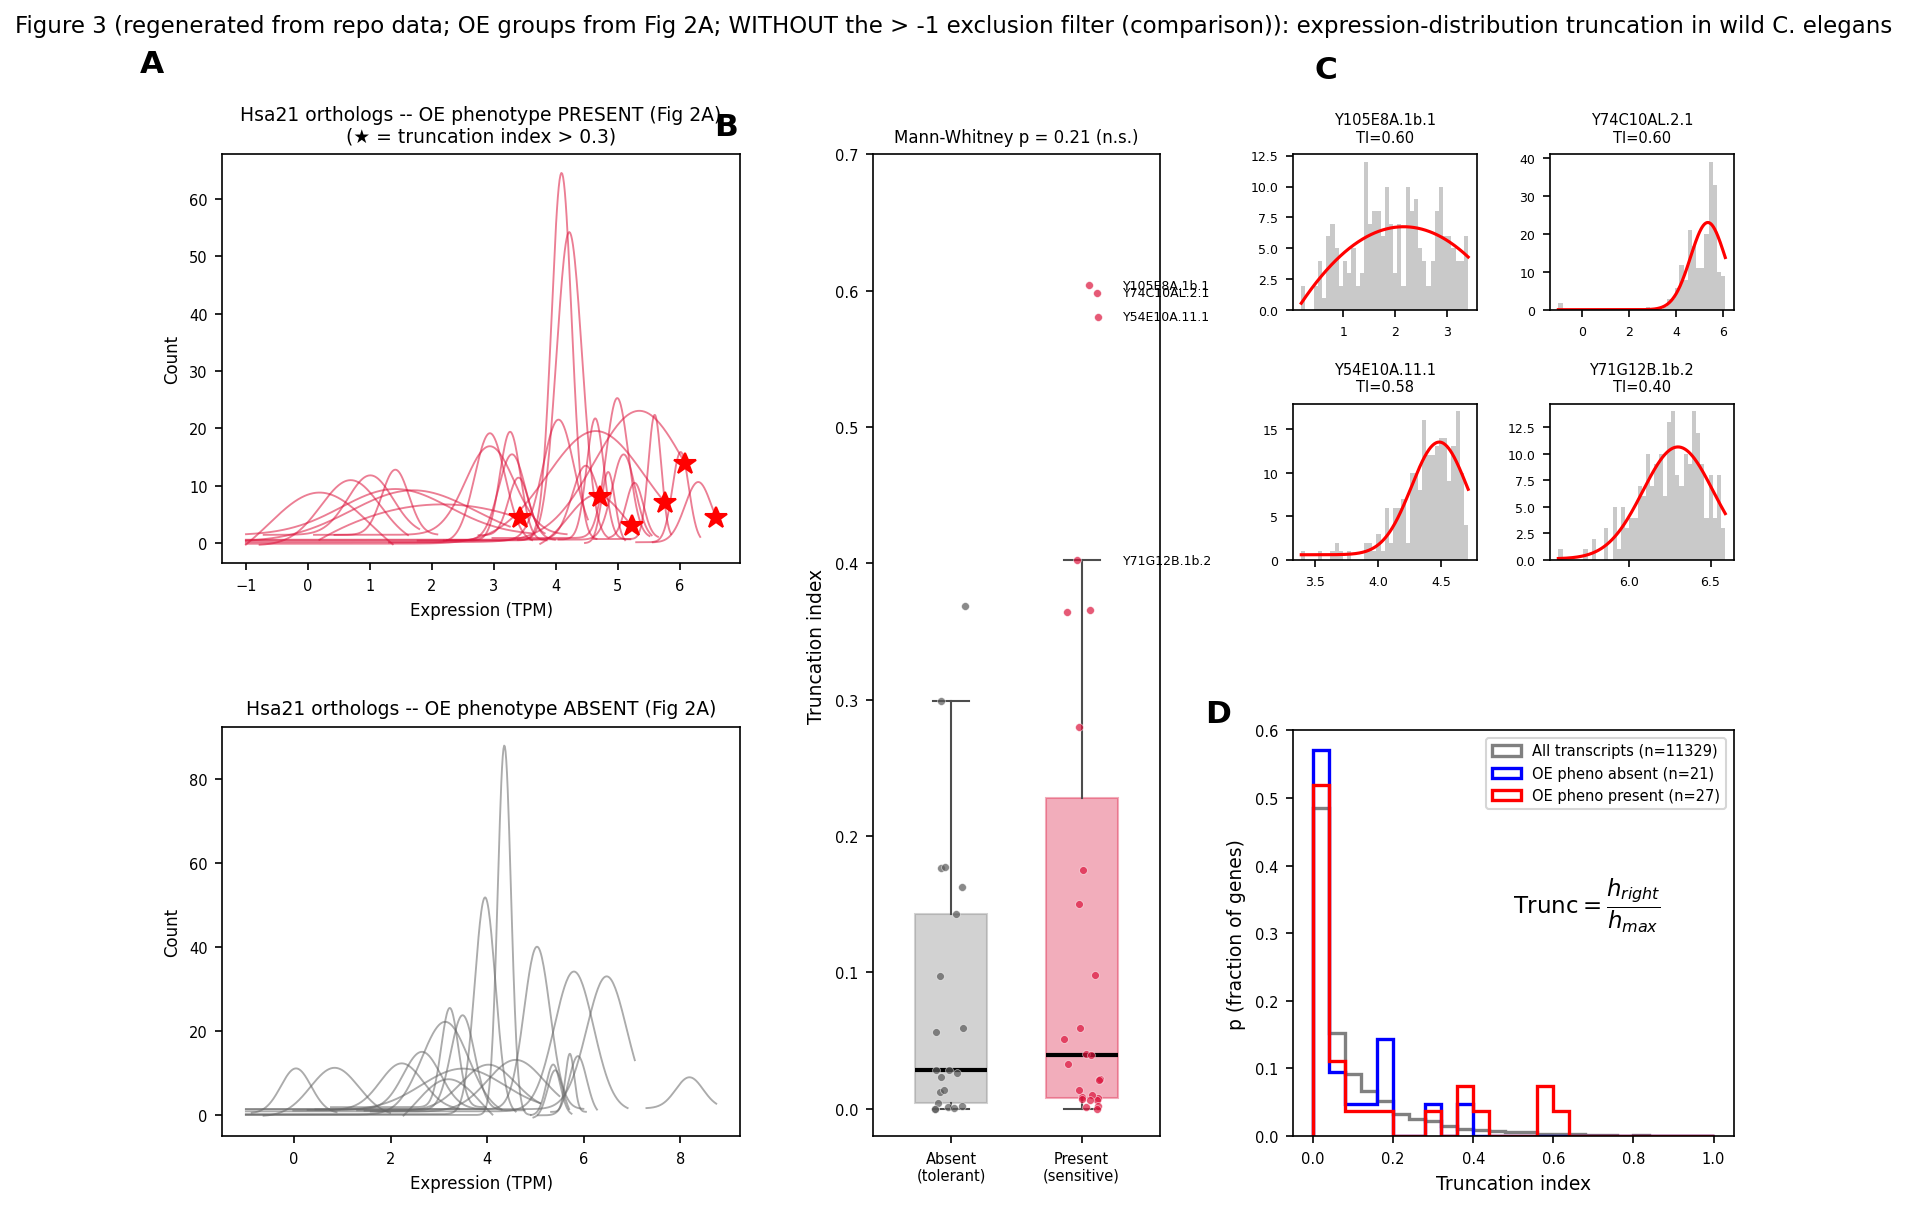
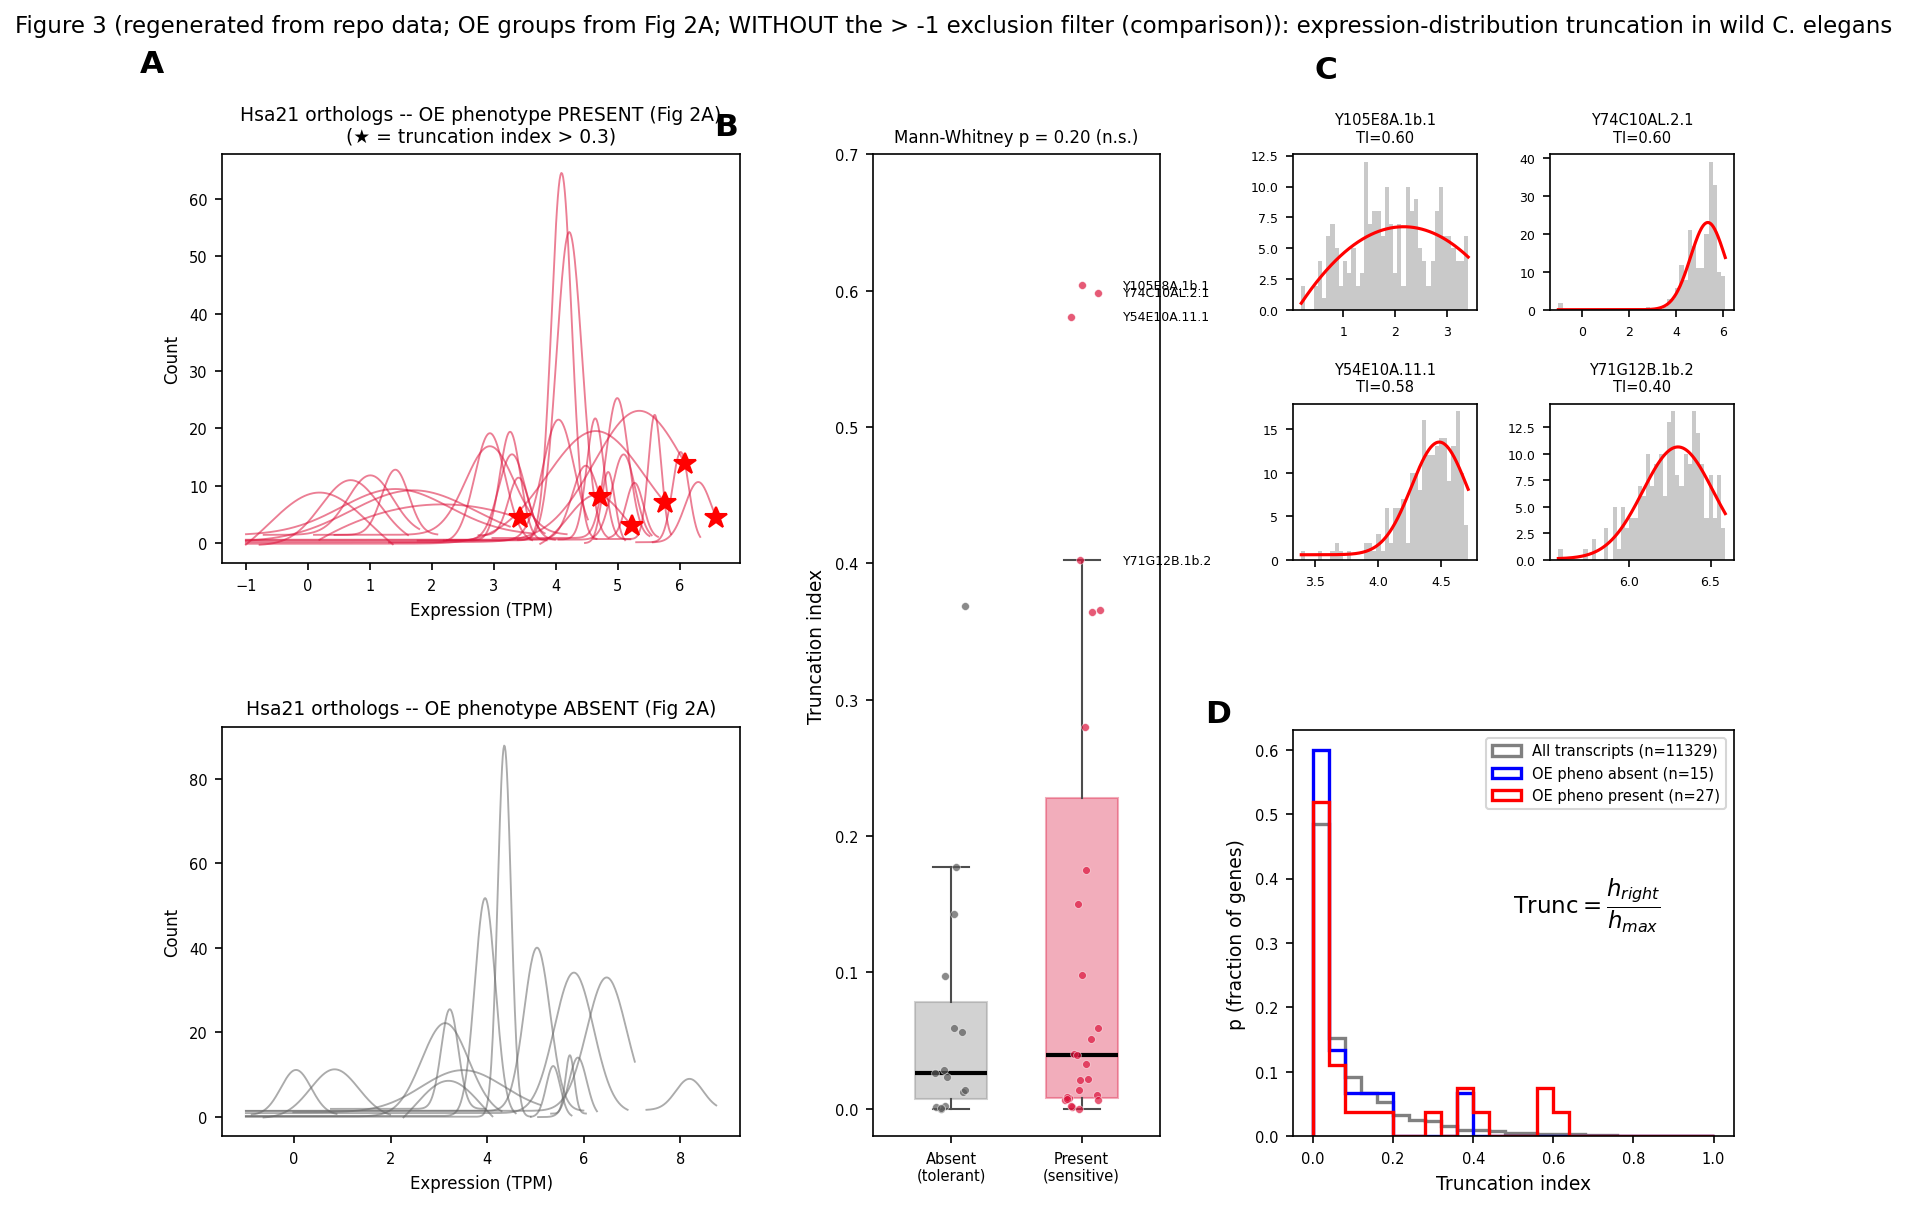
Fig 3: exclude itsn-1 and adr-2 from worm panels (professor's instruction)
EXCLUDE_GENES = {itsn-1, adr-2}; both OE-tolerant. Dropped from every worm
panel (3A-D + 3B comparison), filtered and no-filter. Regenerated all three
worm PNGs. Removing these two elevated tolerant genes lowers the tolerant
group and moves the grant-style 3B t-test from p~0.29 to p~0.11; box-plot
MWU ~0.22 (filtered) / ~0.20 (no-filter). Docs updated.

diff --git a/regenerate_acfrog_figures.py b/regenerate_acfrog_figures.py
@@ -73,6 +73,13 @@ TOL_GENES = [   # 23 OE-tolerant Hsa21 orthologs (no mcOE phenotype)
     "ubc-14", "wdr-4",
 ]
 
+# Genes to drop from the Fig-3 analysis at the professor's instruction
+# (itsn-1 and adr-2, both OE-tolerant). Removed from every worm panel (3A-D and
+# the 3B comparison), in both the filtered and no-filter renderings.
+EXCLUDE_GENES = {"itsn-1", "adr-2"}
+SENS_GENES = [g for g in SENS_GENES if g not in EXCLUDE_GENES]
+TOL_GENES = [g for g in TOL_GENES if g not in EXCLUDE_GENES]
+
 
 def build_worm_groups(table_index):
     """

diff --git a/acfrog.md b/acfrog.md
@@ -245,7 +245,8 @@ phenotypes in our proposal.
 > hlh-34, sod-1, D1037.1, unc-26, Y74C10AL.2, trpp-10, K02C4.3.
 > **OE-tolerant (no mcOE, 23):** adr-2, atp-3, B0024.15, cbs-1, cct-8, D1086.9, H39E23.3,
 > igcm-1, mbk-1, F38B6.4, stc-1, itsn-1, zig-10, mrpl-39, mtq-2, pes-4, pad-2, ikb-1, rnt-1,
-> set-29, sod-5, ubc-14, wdr-4.
+> set-29, sod-5, ubc-14, wdr-4. *(`itsn-1` and `adr-2` are excluded from the Fig. 3 panels
+> at the professor's instruction.)*
 
 *(Research Strategy — Page 37)*
 
@@ -261,13 +262,14 @@ phenotypes in our proposal.
 >
 > - **Worm (Fig. 3):** OE groups are taken from **Figure 2A** (mcOE-"Any" column = OE
 >   sensitive; no mcOE = OE tolerant), *not* from `genes_of_interest.json` — the json
->   lacked the OE-tolerant no-phenotype genes that form the correct "absent" control. With
->   the proper control, the qualitative pattern **does** appear as a **tail effect**:
->   OE-tolerant genes are capped (max TI ≈ 0.30, 94% below 0.2) while OE-sensitive genes
->   spread out to 0.60 (25% above 0.2). The center/median is similar for both, so
->   Mann-Whitney is only **p ≈ 0.24 (n.s.)** — weaker than the proposal's *p < 0.004*
->   (likely the older *unbounded* truncation-index metric or a per-gene test amplified it),
->   but the direction and the tolerant-genes-are-capped result are real.
+>   lacked the OE-tolerant no-phenotype genes that form the correct "absent" control.
+>   **Two OE-tolerant genes, `itsn-1` and `adr-2`, are excluded from all worm panels at the
+>   professor's instruction** (`EXCLUDE_GENES` in the script). With the proper control, the
+>   qualitative pattern **does** appear as a **tail effect**: OE-tolerant genes are capped
+>   (max TI ≈ 0.18) while OE-sensitive genes spread out to 0.60. The center/median is similar
+>   for both, so Mann-Whitney is only **p ≈ 0.22 (n.s.)** — weaker than the proposal's
+>   *p < 0.004* (likely the older *unbounded* truncation-index metric or a per-gene test
+>   amplified it), but the direction and the tolerant-genes-are-capped result are real.
 > - **Cerebellum (Fig. 4):** the classic triplication genes (*APP*, *SOD1*, *SNCA*,
 >   *RCAN1*, *PCSK9*, *MECP2* …) come out as mid-range Gaussians with tapering right tails;
 >   their truncation indices are ≈ 0, consistent with the repo's own section-5 finding that
@@ -316,12 +318,13 @@ red). D) Data in B shown as normalized histograms compared to all transcripts."
 Same panels, but built from the **non-excluded** fits (`worm_fourparam_table.csv`) with the
 −1 expression floor **included** when re-histogramming — i.e. the pipeline's usual `> -1`
 low-expression exclusion turned **off** (the `fit_success` / `0<TI<1` / `n_obs≥30` validity
-filters still apply). This is for comparison only; the `> -1` filter is the default and
-recommended setting. Dropping it lets more transcripts through (all: 11,062 → 11,329;
-OE-tolerant: 18 → 21) and pulls fits leftward as the −1 floor re-enters each distribution,
-but the qualitative picture is unchanged (Mann-Whitney p ≈ 0.22 vs 0.24; tolerant genes
-still capped, sensitive genes still spread higher). Regenerate both via
-`python regenerate_acfrog_figures.py` (`figure3(exclude=True/False)`).
+filters still apply; `itsn-1`/`adr-2` are excluded in both renderings). This is for
+comparison only; the `> -1` filter is the default and recommended setting. Dropping it lets
+more transcripts through (all: 11,062 → 11,329; OE-tolerant: 12 → 15) and pulls fits leftward
+as the −1 floor re-enters each distribution, but the qualitative picture is unchanged
+(Mann-Whitney p ≈ 0.20 vs 0.22; tolerant genes still capped, sensitive genes still spread
+higher). Regenerate both via `python regenerate_acfrog_figures.py`
+(`figure3(exclude=True/False)`).
 
 #### Figure 3B — box plot vs. the grant's representation
 
@@ -331,15 +334,18 @@ The grant's 3B is **not** a box plot — it is a per-gene dot plot with a black 
 marker, using **one (canonical) transcript per gene**. This panel puts the two
 representations of the *same data / same metric / same Fig-2A groups* side by side:
 
-- **Left — box plot, all transcripts (median):** Mann-Whitney p ≈ 0.24 (as embedded in
+- **Left — box plot, all transcripts (median):** Mann-Whitney p ≈ 0.22 (as embedded in
   Figure 3). Median-based, so the shared spike at TI ≈ 0.03 dominates.
-- **Right — grant style, 1 transcript/gene, mean ± SEM:** Welch t-test p ≈ 0.29.
+- **Right — grant style, 1 transcript/gene, mean ± SEM:** Welch t-test p ≈ 0.11.
 
-Neither reproduces the grant's *p < 0.004*, and the difference between them is **not** the
-truncation-index formula or the `> -1` filter — it is **transcript selection**. With the
-canonical isoform, *itsn-1* (tolerant) sits at 0.30 and *Y74C10AL.2* (which the grant plots
-at 0.68) drops to ~0, because the grant plotted different isoforms. Even the grant's own
-supplementary `trunc` values, tested on these 23/21 gene lists, only reach p ≈ 0.03–0.07 —
+(Both panels exclude `itsn-1`/`adr-2` per the professor; removing those two elevated
+tolerant genes drops the grant-style tolerant mean from ≈ 0.087 to ≈ 0.049 and its t-test
+from p ≈ 0.29 to ≈ 0.11.) Neither reproduces the grant's *p < 0.004*, and the difference
+between the two representations is **not** the truncation-index formula or the `> -1`
+filter — it is **transcript selection**. With the canonical isoform, *Y74C10AL.2* (which the
+grant plots at 0.68) drops to ~0, because the grant plotted different isoforms. Even the
+grant's own supplementary `trunc` values, tested on these gene lists, only reach
+p ≈ 0.03–0.07 —
 so the published *p < 0.004* most likely came from an expanded gene set (the caption's *+13
 genes from independent worm studies*) or a different test, rather than from these 47 Hsa21
 orthologs alone.

diff --git a/CLAUDE.md b/CLAUDE.md
@@ -152,7 +152,7 @@ Both are the interactive scratch space (`from bhuvanfitter import BhuvanFitter, 
 
 `ACFROG~1.PDF` is the Pierce-lab NIH-style grant proposal ("OE threshold / Censoring Hypothesis" for DS & AD genes) whose preliminary figures this whole toolkit supports. `acfrog.md` is its markdown conversion (text reconstructed from the PDF; Figs 1 & 2 are conceptual diagrams/tables and are only described — but Fig 2A's gene table is transcribed). **`regenerate_acfrog_figures.py`** regenerates the two *data* figures **faithfully from repo data** via `BhuvanFitter` → `acfrog_figure3_worm.png` (Fig 3, worm) and `acfrog_figure4_cerebellum.png` (Fig 4, cerebellum: Hsa21 & triplication-sensitive gene distributions). Run: `python regenerate_acfrog_figures.py`.
 
-- **Fig 3 OE groups come from Figure 2A, not `genes_of_interest.json`.** The script hard-codes `SENS_GENES` (24 OE-sensitive) / `TOL_GENES` (23 OE-tolerant) worm gene names extracted from Fig 2A's mcOE-"Any" shaded cells (the json lacks the OE-tolerant no-phenotype genes, which are the correct "absent" control for panel D). `build_worm_groups()` resolves those names → fourparam-table transcript IDs (`w{n}_{transcript}`) via the `Supplementary Data 1 trunc 20250702.xlsx` `GeneName`/`transcript`/`wwww` columns (hlh-34, sod-5, H39E23.3 aren't in the dataset and drop out).
+- **Fig 3 OE groups come from Figure 2A, not `genes_of_interest.json`.** The script hard-codes `SENS_GENES` (24 OE-sensitive) / `TOL_GENES` (23 OE-tolerant) worm gene names extracted from Fig 2A's mcOE-"Any" shaded cells (the json lacks the OE-tolerant no-phenotype genes, which are the correct "absent" control for panel D). `build_worm_groups()` resolves those names → fourparam-table transcript IDs (`w{n}_{transcript}`) via the `Supplementary Data 1 trunc 20250702.xlsx` `GeneName`/`transcript`/`wwww` columns (hlh-34, sod-5, H39E23.3 aren't in the dataset and drop out). **`EXCLUDE_GENES = {"itsn-1", "adr-2"}`** (two OE-tolerant genes) are dropped from `SENS_GENES`/`TOL_GENES` at the professor's instruction, so they're absent from every worm panel (3A–D and the 3B comparison), filtered and no-filter alike.
 - **Honesty caveat (in script + md):** with the proper Fig 2A groups, Fig 3D shows the qualitative pattern as a **tail effect** — OE-tolerant genes are capped (max TI ≈ 0.30) while OE-sensitive spread to 0.60 — but the medians are similar so Mann-Whitney is only p ≈ 0.24 (n.s.), weaker than the proposal's p < 0.004 (likely the older *unbounded* TI metric amplified it). Cerebellum (Fig 4): triplication genes have truncation index ≈ 0, and even as a pTriplo≥0.94-vs-dup-tolerant contrast the signal is flat/reversed (consistent with the section-5 ρ ≈ −0.01). Fig 3D uses **probability (per-bin fraction) normalization** to match the original's `p` axis, not density.
 - **`figure3(exclude=...)` toggle.** `figure3(exclude=True)` (default) uses the `> -1` excluded table + floor → `acfrog_figure3_worm.png`; `figure3(exclude=False)` uses the non-excluded `worm_fourparam_table.csv` and includes the −1 floor when re-histogramming → `acfrog_figure3_worm_nofilter.png` (comparison only; the validity filters `fit_success`/`0<TI<1`/`n_obs≥30` still apply). Dropping the exclusion lets more transcripts through and shifts fits left but leaves the qualitative result unchanged. `__main__` writes both.
-- **`figure3b_comparison()`** → `acfrog_figure3b_comparison.png`: side-by-side of panel 3B as (left) a box plot over all transcripts (median, Mann-Whitney p ≈ 0.24) vs (right) the **grant's style** — one canonical transcript per gene, mean ± SEM, gene-name labels, Welch t-test p ≈ 0.29. Same metric/data/groups; the grant's stronger *p < 0.004* is **not** reproduced. Diagnosis (also in acfrog.md): the box-vs-grant difference is **transcript selection + mean-vs-median statistic**, NOT the `> -1` filter (no-filter barely moves p) and NOT the truncationindex formula (current metric ≈ the grant's own supplementary `trunc` for most genes: cle-1/dnsn-1/dip-2/Y54E10A.11/Y105E8A.1 all within ~0.05). Even the grant's own `trunc` on these 23/21 gene lists only reaches p ≈ 0.03–0.07, so the published p likely used an expanded gene set (+13 independent-study genes).
+- **`figure3b_comparison()`** → `acfrog_figure3b_comparison.png`: side-by-side of panel 3B as (left) a box plot over all transcripts (median, Mann-Whitney p ≈ 0.22) vs (right) the **grant's style** — one canonical transcript per gene, mean ± SEM, gene-name labels, Welch t-test p ≈ 0.11 (both after excluding itsn-1/adr-2; dropping those two elevated tolerant genes moved the grant-style p from ≈ 0.29 → ≈ 0.11). Same metric/data/groups; the grant's stronger *p < 0.004* is **not** reproduced. Diagnosis (also in acfrog.md): the box-vs-grant difference is **transcript selection + mean-vs-median statistic**, NOT the `> -1` filter (no-filter barely moves p) and NOT the truncationindex formula (current metric ≈ the grant's own supplementary `trunc` for most genes: cle-1/dnsn-1/dip-2/Y54E10A.11/Y105E8A.1 all within ~0.05). Even the grant's own `trunc` on these 23/21 gene lists only reaches p ≈ 0.03–0.07, so the published p likely used an expanded gene set (+13 independent-study genes).